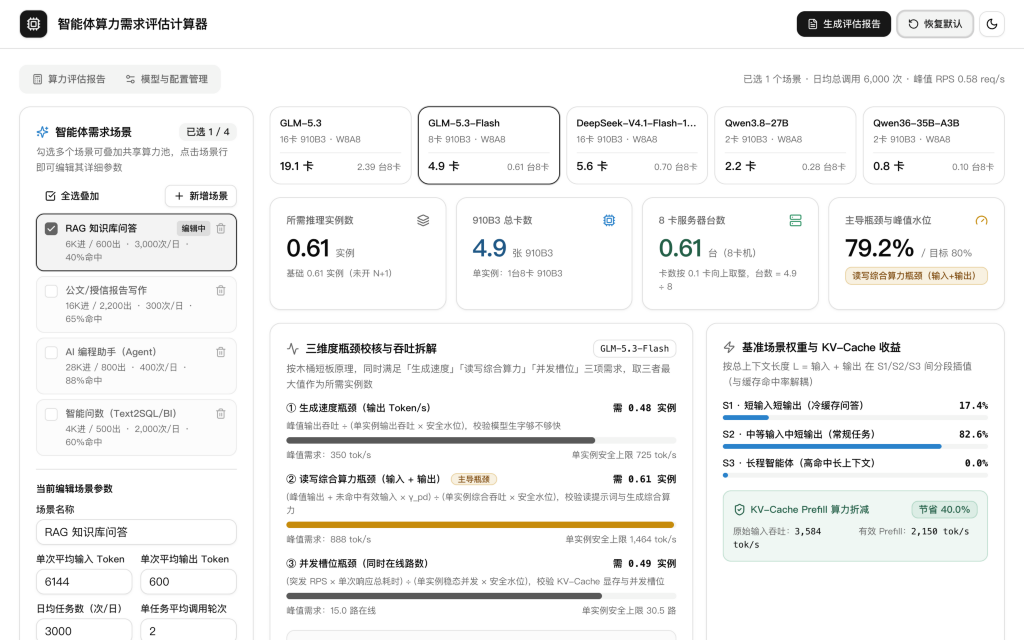
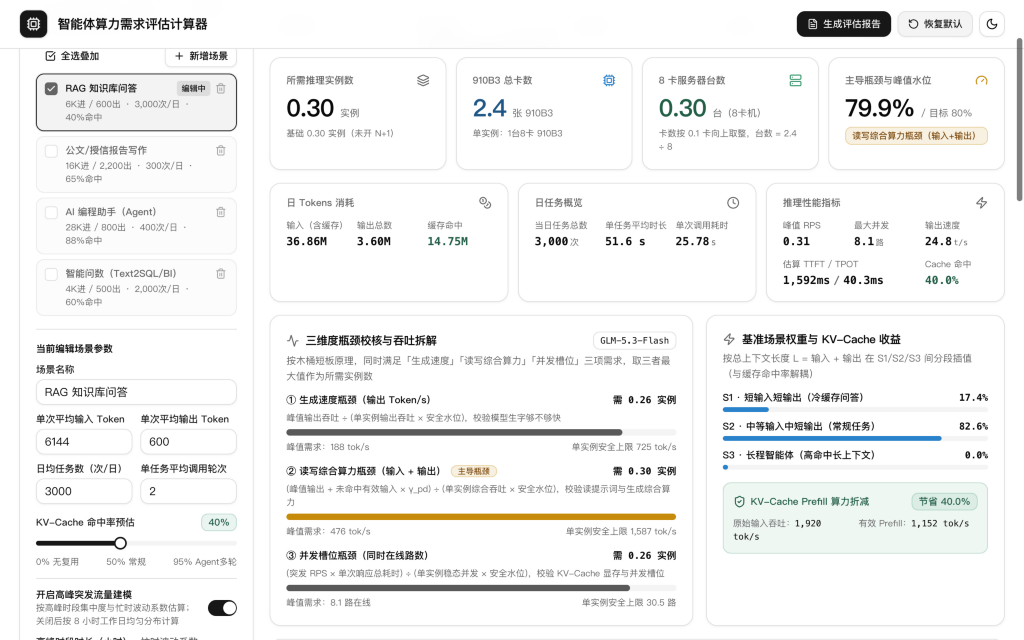
docs: update README and latest UI screenshots

diff --git a/README.md b/README.md
@@ -26,7 +26,8 @@
 ## 核心特性
 
 - **多选智能体场景池化叠加**：内置 4 套企业级典型智能体场景（`RAG 知识库问答`、`公文/授信报告写作`、`AI 编程助手 Agent`、`智能问数 Text2SQL/BI`），支持多选勾选叠加共享算力池，也支持自由新增与删除自定义场景。
-- **互联网高峰突发建模（可开关）**：支持按高峰时段时长、高峰流量占比与瞬时峰值系数（Peak/Avg）估算突发 RPS；关闭后自动切换为全天 24 小时均摊模式。
+- **工作日 8 小时高峰突发建模（可开关）与 24 小时可视化对比**：参考 **BurstGPT（arXiv:2401.17644）** 与政企 8 小时工作制办公曲线，支持按高峰时长、高峰占比与忙时波动系数（`1.10–1.30×`）建模，关闭后自动切换为 8 小时工作日均摊；右侧提供 **24 小时工作日流量分布图**（支持任务数 / 模型请求数 / Tokens 数切换与双水位虚线对比）。
+- **日级业务指标与推理性能全景卡**：实时汇总日输入（含缓存）/ 输出 / 缓存命中 Tokens 总量、日任务总数与单任务平均时长，以及峰值/均值 RPS、最大并发路数、单路输出速度、估算 TTFT/TPOT 与平均 KV-Cache 命中率。
 - **解耦式三场景基准插值与超长上下文外推**：
   - **S1（短进短出，冷缓存问答）**：`1K` 输入 / `512` 输出 / `0%` Cache Hit
   - **S2（中等输入，常规业务）**：`8K` 输入 / `1K` 输出 / `30%` Cache Hit
